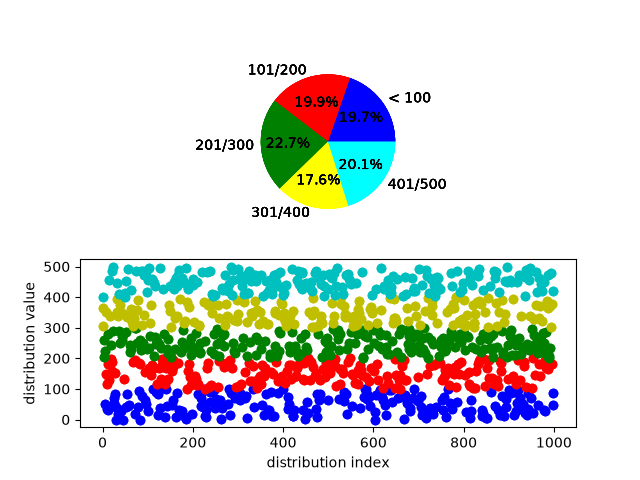
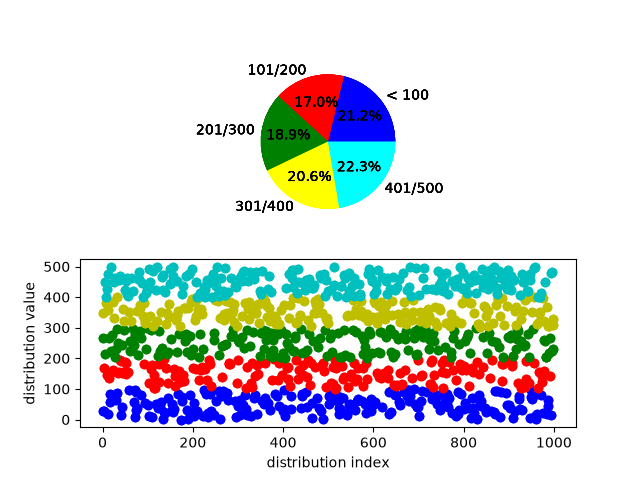
p08

diff --git a/p08/ex1/loading.py b/p08/ex1/loading.py
@@ -1,6 +1,7 @@
 from importlib import util, metadata
 import sys
 
+
 class Color_line():
     BLACK: str = "\033[90m"
     RED: str = "\033[91m"
@@ -12,14 +13,15 @@ class Color_line():
     WHITE: str = "\033[97m"
     RESET: str = "\033[0m"
 
+
 def venv_instruction() -> None:
-    print(f"{Color_line.YELLOW}python -m venv \x1B[3m<environement-name>\x1B[0m")
+    print(f"{Color_line.YELLOW}"
+          "python -m venv \x1B[3m<environement-name>\x1B[0m")
     print(f"{Color_line.YELLOW}source matrix_env/bin/activate # On Unix")
     print(f"matrix_env\\Scripts\\activate # On Windows{Color_line.RESET}\n")
 
 
-
-def get_plot_color(key: str) -> str:
+def get_plot_color(key: str) -> str | None:
     match key:
         case '< 100':
             return 'bo'
@@ -31,9 +33,10 @@ def get_plot_color(key: str) -> str:
             return 'yo'
         case '401/500':
             return 'co'
-   
+    return None
 
-def get_pie_color(key: str) -> str:
+
+def get_pie_color(key: str) -> str | None:
     match key:
         case '< 100':
             return 'blue'
@@ -45,63 +48,77 @@ def get_pie_color(key: str) -> str:
             return 'yellow'
         case '401/500':
             return 'cyan'
-   
+    return None
 
-def create_data_set():
-    import pandas as pd
-    import numpy as np
-    import matplotlib.pyplot as plt
-    arr: np.typing.NDArray = np.random.randint(low=0, high=500, size=(1,1000)).round(2)
+
+def create_data_set() -> None:
+
+    import pandas as pd  # type: ignore[import-untyped]
+    import numpy as np  # type: ignore[import-not-found]
+    import matplotlib.pyplot as plt  # type: ignore[import-not-found]
+
+    arr: np.typing.NDArray = np.random.randint(
+        low=0, high=500, size=(1, 1000)).round(2)
+    print("Analyzing Matrix data...")
     frame = pd.DataFrame({"value": arr[0]})
-    sets: list[pd.DataFrame] = {
-        '< 100':frame.query('value <= 100'),
-        '101/200':frame.query('value > 100 and value <= 200'),
-        '201/300':frame.query('value > 200 and value <= 300'),
-        '301/400':frame.query('value > 300 and value <= 400'),
-        '401/500':frame.query('value > 400 and value <= 500'),
+    sets: dict[str, pd.DataFrame] = {
+        '< 100': frame.query('value <= 100'),
+        '101/200': frame.query('value > 100 and value <= 200'),
+        '201/300': frame.query('value > 200 and value <= 300'),
+        '301/400': frame.query('value > 300 and value <= 400'),
+        '401/500': frame.query('value > 400 and value <= 500'),
     }
+    print("Processing 1000 data points...")
     fig, ax = plt.subplots(2)
     pie: list[int] = [len(list(sets[x]['value'])) for x in sets]
     label: list[str] = [x for x in sets]
-    color: list[str] = [get_pie_color(x) for x in sets]
+    color: list[str | None] = [get_pie_color(x) for x in sets]
 
     ax[1].set_xlabel('distribution index')
     ax[1].set_ylabel('distribution value')
     for x in sets:
-        ax[0].pie(pie,labels= label, colors=color, autopct='%1.1f%%')
+        ax[0].pie(pie, labels=label, colors=color, autopct='%1.1f%%')
         ax[1].plot(sets[x], get_plot_color(x))
         ax[1].plot(sets[x], get_plot_color(x))
     try:
+        print("Generating visualization.")
         plt.savefig("matrix_analysis.png")
     except Exception as e:
         print(e)
 
-def check_dependancy(dependencys: list[str]) -> None:
-    is_complete: bool =  True
+
+def check_dependancy(dependencys: dict[str, str]) -> bool:
+    is_complete: bool = True
     for dependency in dependencys:
         dependency = dependency.strip()
         if util.find_spec(dependency) is not None:
             version = metadata.version(dependency)
-            print(f"{Color_line.GREEN}[OK] {dependency}{Color_line.RESET} ({version}) - {dependencys[dependency]} ready")
+            print(f"{Color_line.GREEN}[OK] "
+                  f"{dependency}{Color_line.RESET} ({version}) - "
+                  f"{dependencys[dependency]} ready")
         else:
-            is_complete = True
-            print(f"{Color_line.RED}[NOK] {dependency}:{Color_line.RESET}")
-    if sys.base_prefix == sys.prefix:
-        print(f"\n{Color_line.RED}Your are not in a python virtual environment\nfollow the instruction below for install a python virtual environment:{Color_line.RESET}")
-        venv_instruction()
-        print(f"Dependance installation instruction:\n{Color_line.YELLOW}pip install -r requirements.txt{Color_line.RESET}")
+            is_complete = False
+            print(f"{Color_line.RED}[NOK] {dependency}{Color_line.RESET}")
+    if is_complete is False:
+        if sys.base_prefix == sys.prefix:
+            print(f"\n{Color_line.RED}Your are not in "
+                  "a python virtual environment"
+                  f"\nfollow the instruction below "
+                  f"for install a python virtual environment:"
+                  f"{Color_line.RESET}")
+            venv_instruction()
+        print(f"Dependance installation instruction:\n"
+              f"{Color_line.YELLOW}pip install -r "
+              f"requirements.txt{Color_line.RESET}")
         print(f" or\n{Color_line.YELLOW}poetry install{Color_line.RESET}")
 
     return is_complete
 
+
 if __name__ == "__main__":
-    
 
-    check_dependancy({'pandas': 'Data manipulation',
-                      'numpy':'Numerical computation',
-                      'matplotlib':'Visualization'})
-
-    try:
+    check: bool = check_dependancy({'pandas': 'Data manipulation',
+                                    'numpy': 'Numerical computation',
+                                    'matplotlib': 'Visualization'})
+    if check is True:
         create_data_set()
-    except ModuleNotFoundError:
-        pass